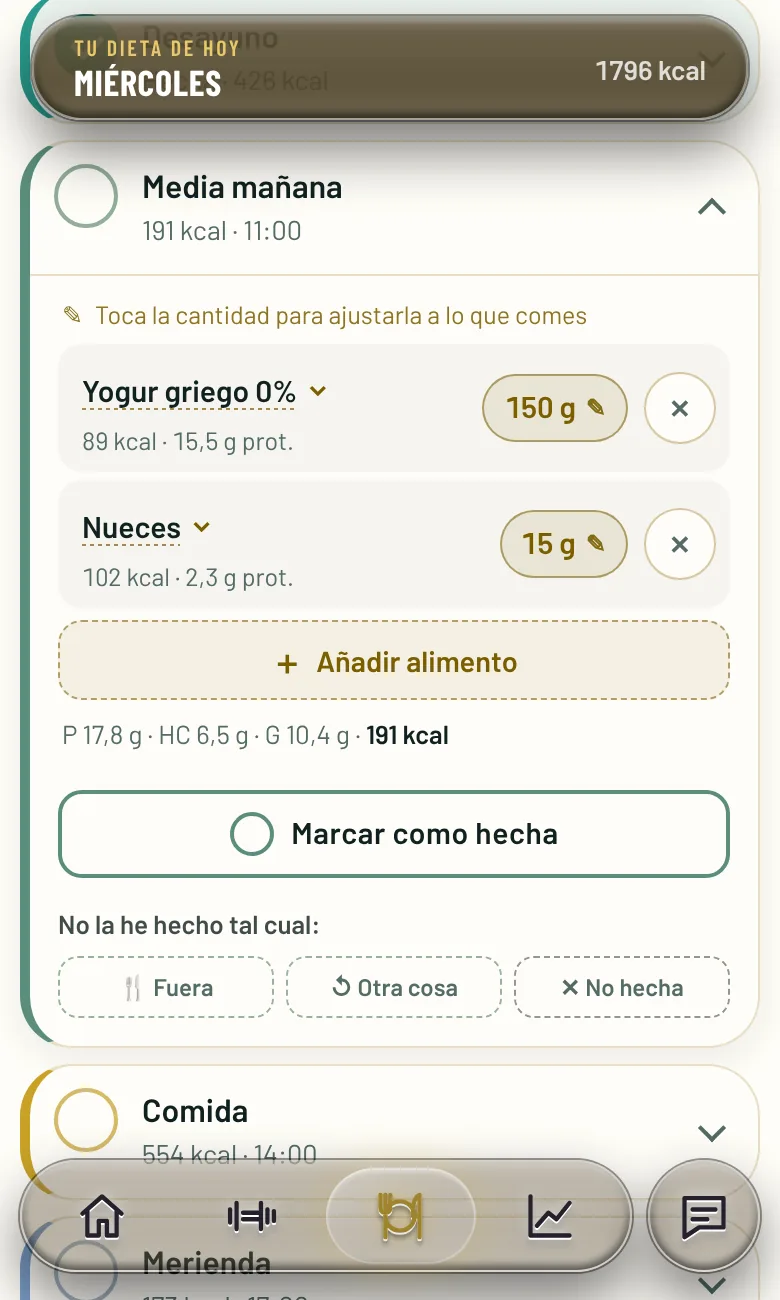
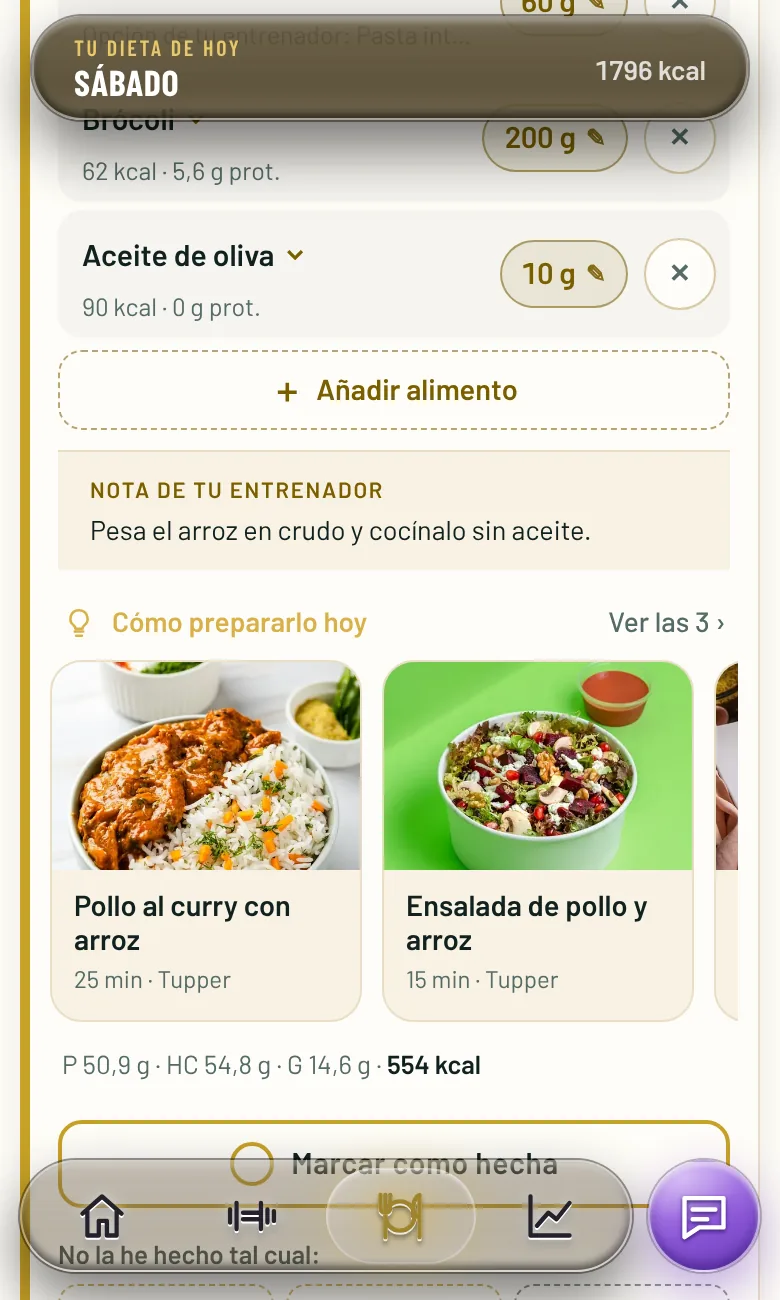
Web: recetas y Garmin Connect en «La app» (capturas nuevas de la demo)
Claude-Session: https://claude.ai/code/session_01XqDZy1txWeWUD3wH3kwhHA

diff --git a/index.html b/index.html
@@ -96,6 +96,18 @@ section { padding-block: 96px 0; }
 .shot .phone img { border-radius: 19px; }
 .shot figcaption { font-size: 14px; line-height: 1.45; color: var(--band-muted); }
 .shot figcaption b { color: var(--band-fg); font-weight: 600; }
+/* Novedades: recetas y Garmin (14 nov) */
+.app-new { margin-top: 96px; display: grid; gap: 80px; }
+.nw { display: grid; grid-template-columns: minmax(0, 1fr) minmax(0, 1fr); gap: 56px; align-items: center; }
+.nw + .nw .nw-txt { order: 2; }
+.nw h3 { font-size: clamp(28px, 3.4vw, 40px); font-weight: 800; line-height: 1.1; margin: 8px 0 14px; color: var(--band-fg); }
+.nw-txt > p { color: var(--band-muted); max-width: 52ch; }
+.nw .feats { margin-top: 22px; }
+.nw-ph { display: flex; justify-content: center; align-items: flex-start; gap: 18px; padding-bottom: 28px; }
+.nw-ph .phone { width: 46%; max-width: 240px; }
+.nw-ph .phone:nth-child(2) { transform: translateY(28px); }
+.nw-tm { margin: 0; font-size: 12px; line-height: 1.5; color: var(--band-muted); }
+@media (max-width: 800px) { .nw { grid-template-columns: minmax(0, 1fr); gap: 28px; } .nw + .nw .nw-txt { order: 0; } }
 @media (max-width: 1000px) { .shots { grid-template-columns: repeat(3, minmax(0, 1fr)); row-gap: 28px; } }
 
 /* Sobre mí */
@@ -227,6 +239,10 @@ section { padding-block: 96px 0; }
   .shots { display: flex; overflow-x: auto; scroll-snap-type: x mandatory; margin-inline: -20px; padding: 4px 20px 6px; gap: 14px; scrollbar-width: none; }
   .shots::-webkit-scrollbar { display: none; }
   .shot { flex: 0 0 64%; scroll-snap-align: center; }
+  .app-new { margin-top: 64px; gap: 56px; }
+  .nw-ph { gap: 12px; padding-bottom: 0; }
+  .nw-ph .phone { flex: 1 1 0; width: auto; max-width: none; }
+  .nw-ph .phone:nth-child(2) { transform: none; }
   .swipe-hint { display: block; margin-top: 10px; text-align: center; font-family: var(--font-mono); font-size: 11px; letter-spacing: .14em; text-transform: uppercase; color: var(--band-muted); }
   .svc { display: grid; grid-template-columns: minmax(0, 1fr) auto; column-gap: 14px; row-gap: 4px; padding: 16px 18px; }
   .svc > * { grid-column: 1; }
@@ -408,7 +424,7 @@ html.intro, html.intro body { overflow: hidden; }
         </div>
         <ul class="feats rv">
           <li><svg width="18" height="18" viewBox="0 0 24 24" fill="none" stroke="currentColor" stroke-width="3" stroke-linecap="round" stroke-linejoin="round"><path d="M5 12l5 5L20 7"/></svg><span><b>Entreno del día</b>, con series, repeticiones y el peso de tu última sesión.</span></li>
-          <li><svg width="18" height="18" viewBox="0 0 24 24" fill="none" stroke="currentColor" stroke-width="3" stroke-linecap="round" stroke-linejoin="round"><path d="M5 12l5 5L20 7"/></svg><span><b>Tu dieta en gramos</b>, con alternativas para cambiar alimentos sin salirte del plan.</span></li>
+          <li><svg width="18" height="18" viewBox="0 0 24 24" fill="none" stroke="currentColor" stroke-width="3" stroke-linecap="round" stroke-linejoin="round"><path d="M5 12l5 5L20 7"/></svg><span><b>Tu dieta en gramos</b>, con alternativas para cambiar alimentos sin salirte del plan e ideas de recetas con esos mismos gramos.</span></li>
           <li><svg width="18" height="18" viewBox="0 0 24 24" fill="none" stroke="currentColor" stroke-width="3" stroke-linecap="round" stroke-linejoin="round"><path d="M5 12l5 5L20 7"/></svg><span><b>Lista de la compra</b> preparada a partir de tu plan.</span></li>
           <li><svg width="18" height="18" viewBox="0 0 24 24" fill="none" stroke="currentColor" stroke-width="3" stroke-linecap="round" stroke-linejoin="round"><path d="M5 12l5 5L20 7"/></svg><span><b>Carreras y progreso</b>: registra tus salidas y sigue tu semana de un vistazo.</span></li>
           <li><svg width="18" height="18" viewBox="0 0 24 24" fill="none" stroke="currentColor" stroke-width="3" stroke-linecap="round" stroke-linejoin="round"><path d="M5 12l5 5L20 7"/></svg><span><b>Compatible con Garmin Connect</b>: si entrenas con reloj Garmin, conectas tu cuenta y tus salidas y actividades llegan solas a la app, sin apuntarlas a mano. Yo las veo al momento.</span></li>
@@ -420,7 +436,7 @@ html.intro, html.intro body { overflow: hidden; }
       <div class="phones rv" aria-label="Capturas de la app Team Biscuit">
         <div class="phone"><img src="img/app-home.webp?v=7" alt="Pantalla de inicio de la app (cliente de ejemplo)" width="390" height="650"></div>
         <div class="phone"><img src="img/app-ent.webp?v=7" alt="Pantalla de entrenamiento" width="390" height="650"></div>
-        <div class="phone"><img src="img/app-diet.webp?v=7" alt="Pantalla de dieta" width="390" height="650"></div>
+        <div class="phone"><img src="img/app-diet.webp?v=8" alt="Pantalla de dieta con ideas de recetas" width="390" height="650"></div>
       </div>
       <p class="swipe-hint" aria-hidden="true">Desliza para ver más →</p>
       </div>
@@ -441,6 +457,41 @@ html.intro, html.intro body { overflow: hidden; }
         </div>
         <p class="swipe-hint" aria-hidden="true">Desliza para ver más →</p>
       </div>
+    </section>
+    <section class="app-new" aria-label="Novedades de la app">
+      <div class="nw">
+        <div class="nw-txt rv">
+          <p class="eyebrow">Novedad · Dieta</p>
+          <h3>Cómo prepararlo</h3>
+          <p>Cada comida de tu dieta trae ideas de recetas hechas con tus mismos alimentos y gramos, así que tu plan no cambia. Con foto, ingredientes pesados y los pasos.</p>
+          <ul class="feats">
+            <li><svg width="18" height="18" viewBox="0 0 24 24" fill="none" stroke="currentColor" stroke-width="3" stroke-linecap="round" stroke-linejoin="round"><path d="M5 12l5 5L20 7"/></svg><span><b>Más de 170 recetas</b> para desayunos, comidas, meriendas y cenas.</span></li>
+            <li><svg width="18" height="18" viewBox="0 0 24 24" fill="none" stroke="currentColor" stroke-width="3" stroke-linecap="round" stroke-linejoin="round"><path d="M5 12l5 5L20 7"/></svg><span><b>Modo cocinar</b> paso a paso, con la pantalla siempre encendida.</span></li>
+            <li><svg width="18" height="18" viewBox="0 0 24 24" fill="none" stroke="currentColor" stroke-width="3" stroke-linecap="round" stroke-linejoin="round"><path d="M5 12l5 5L20 7"/></svg><span><b>Favoritas y tupper</b>: guarda las que más te gustan y cocina para dos o tres días.</span></li>
+          </ul>
+        </div>
+        <div class="nw-ph rv">
+          <div class="phone"><img src="img/app-receta.webp?v=1" alt="Receta con foto para la comida del día" width="390" height="650" loading="lazy"></div>
+          <div class="phone"><img src="img/app-receta-pasos.webp?v=1" alt="Ingredientes en gramos y pasos de la receta" width="390" height="650" loading="lazy"></div>
+        </div>
+      </div>
+      <div class="nw">
+        <div class="nw-txt rv">
+          <p class="eyebrow">Novedad · Carrera</p>
+          <h3>Conecta con Garmin Connect</h3>
+          <p>Si entrenas con reloj Garmin, conectas tu cuenta desde la app en un minuto. Tus salidas llegan solas y marcan la sesión de tu plan: tú solo me dices cómo te has sentido.</p>
+          <ul class="feats">
+            <li><svg width="18" height="18" viewBox="0 0 24 24" fill="none" stroke="currentColor" stroke-width="3" stroke-linecap="round" stroke-linejoin="round"><path d="M5 12l5 5L20 7"/></svg><span><b>La actividad completa</b>: ritmo, pulso, zonas, kilómetro a kilómetro, desnivel y recorrido.</span></li>
+            <li><svg width="18" height="18" viewBox="0 0 24 24" fill="none" stroke="currentColor" stroke-width="3" stroke-linecap="round" stroke-linejoin="round"><path d="M5 12l5 5L20 7"/></svg><span><b>Yo la veo al momento</b> y ajusto tu plan con datos reales.</span></li>
+            <li><svg width="18" height="18" viewBox="0 0 24 24" fill="none" stroke="currentColor" stroke-width="3" stroke-linecap="round" stroke-linejoin="round"><path d="M5 12l5 5L20 7"/></svg><span><b>Tú decides</b>: lo conectas y desconectas cuando quieras.</span></li>
+          </ul>
+        </div>
+        <div class="nw-ph rv">
+          <div class="phone"><img src="img/app-garmin-sesion.webp?v=1" alt="Sesión de carrera completada sola con un reloj Garmin" width="390" height="650" loading="lazy"></div>
+          <div class="phone"><img src="img/app-garmin-ficha.webp?v=1" alt="Ficha completa de una salida con gráficas de ritmo y pulso" width="390" height="650" loading="lazy"></div>
+        </div>
+      </div>
+      <p class="nw-tm">Garmin y Garmin Connect son marcas de Garmin Ltd. o sus filiales. Tactical Biscuit Training no está patrocinado por Garmin.</p>
     </section>
   </div>
 </div>

diff --git a/en/index.html b/en/index.html
@@ -97,6 +97,18 @@ section { padding-block: 96px 0; }
 .shot .phone img { border-radius: 19px; }
 .shot figcaption { font-size: 14px; line-height: 1.45; color: var(--band-muted); }
 .shot figcaption b { color: var(--band-fg); font-weight: 600; }
+/* Novedades: recetas y Garmin (14 nov) */
+.app-new { margin-top: 96px; display: grid; gap: 80px; }
+.nw { display: grid; grid-template-columns: minmax(0, 1fr) minmax(0, 1fr); gap: 56px; align-items: center; }
+.nw + .nw .nw-txt { order: 2; }
+.nw h3 { font-size: clamp(28px, 3.4vw, 40px); font-weight: 800; line-height: 1.1; margin: 8px 0 14px; color: var(--band-fg); }
+.nw-txt > p { color: var(--band-muted); max-width: 52ch; }
+.nw .feats { margin-top: 22px; }
+.nw-ph { display: flex; justify-content: center; align-items: flex-start; gap: 18px; padding-bottom: 28px; }
+.nw-ph .phone { width: 46%; max-width: 240px; }
+.nw-ph .phone:nth-child(2) { transform: translateY(28px); }
+.nw-tm { margin: 0; font-size: 12px; line-height: 1.5; color: var(--band-muted); }
+@media (max-width: 800px) { .nw { grid-template-columns: minmax(0, 1fr); gap: 28px; } .nw + .nw .nw-txt { order: 0; } }
 @media (max-width: 1000px) { .shots { grid-template-columns: repeat(3, minmax(0, 1fr)); row-gap: 28px; } }
 
 /* Sobre mí */
@@ -228,6 +240,10 @@ section { padding-block: 96px 0; }
   .shots { display: flex; overflow-x: auto; scroll-snap-type: x mandatory; margin-inline: -20px; padding: 4px 20px 6px; gap: 14px; scrollbar-width: none; }
   .shots::-webkit-scrollbar { display: none; }
   .shot { flex: 0 0 64%; scroll-snap-align: center; }
+  .app-new { margin-top: 64px; gap: 56px; }
+  .nw-ph { gap: 12px; padding-bottom: 0; }
+  .nw-ph .phone { flex: 1 1 0; width: auto; max-width: none; }
+  .nw-ph .phone:nth-child(2) { transform: none; }
   .swipe-hint { display: block; margin-top: 10px; text-align: center; font-family: var(--font-mono); font-size: 11px; letter-spacing: .14em; text-transform: uppercase; color: var(--band-muted); }
   .svc { display: grid; grid-template-columns: minmax(0, 1fr) auto; column-gap: 14px; row-gap: 4px; padding: 16px 18px; }
   .svc > * { grid-column: 1; }
@@ -409,7 +425,7 @@ html.intro, html.intro body { overflow: hidden; }
         </div>
         <ul class="feats rv">
           <li><svg width="18" height="18" viewBox="0 0 24 24" fill="none" stroke="currentColor" stroke-width="3" stroke-linecap="round" stroke-linejoin="round"><path d="M5 12l5 5L20 7"/></svg><span><b>Today’s workout</b>, with sets, reps and the weight from your last session.</span></li>
-          <li><svg width="18" height="18" viewBox="0 0 24 24" fill="none" stroke="currentColor" stroke-width="3" stroke-linecap="round" stroke-linejoin="round"><path d="M5 12l5 5L20 7"/></svg><span><b>Your diet in grams</b>, with alternatives to swap foods without leaving the plan.</span></li>
+          <li><svg width="18" height="18" viewBox="0 0 24 24" fill="none" stroke="currentColor" stroke-width="3" stroke-linecap="round" stroke-linejoin="round"><path d="M5 12l5 5L20 7"/></svg><span><b>Your diet in grams</b>, with alternatives to swap foods without leaving the plan, and recipe ideas using those same grams.</span></li>
           <li><svg width="18" height="18" viewBox="0 0 24 24" fill="none" stroke="currentColor" stroke-width="3" stroke-linecap="round" stroke-linejoin="round"><path d="M5 12l5 5L20 7"/></svg><span><b>Shopping list</b> prepared from your plan.</span></li>
           <li><svg width="18" height="18" viewBox="0 0 24 24" fill="none" stroke="currentColor" stroke-width="3" stroke-linecap="round" stroke-linejoin="round"><path d="M5 12l5 5L20 7"/></svg><span><b>Runs and progress</b>: log your runs and follow your week at a glance.</span></li>
           <li><svg width="18" height="18" viewBox="0 0 24 24" fill="none" stroke="currentColor" stroke-width="3" stroke-linecap="round" stroke-linejoin="round"><path d="M5 12l5 5L20 7"/></svg><span><b>Works with Garmin Connect</b>: if you train with a Garmin watch, connect your account and your runs and activities arrive in the app automatically, with no manual logging. I see them straight away.</span></li>
@@ -421,7 +437,7 @@ html.intro, html.intro body { overflow: hidden; }
       <div class="phones rv" aria-label="Team Biscuit app screenshots">
         <div class="phone"><img src="../img/app-home.webp?v=7" alt="App home screen (sample client)" width="390" height="650"></div>
         <div class="phone"><img src="../img/app-ent.webp?v=7" alt="Training screen" width="390" height="650"></div>
-        <div class="phone"><img src="../img/app-diet.webp?v=7" alt="Diet screen" width="390" height="650"></div>
+        <div class="phone"><img src="../img/app-diet.webp?v=8" alt="Diet screen with recipe ideas" width="390" height="650"></div>
       </div>
       <p class="swipe-hint" aria-hidden="true">Swipe to see more →</p>
       </div>
@@ -442,6 +458,41 @@ html.intro, html.intro body { overflow: hidden; }
         </div>
         <p class="swipe-hint" aria-hidden="true">Swipe to see more →</p>
       </div>
+    </section>
+    <section class="app-new" aria-label="New in the app">
+      <div class="nw">
+        <div class="nw-txt rv">
+          <p class="eyebrow">New · Diet</p>
+          <h3>How to cook it</h3>
+          <p>Every meal in your diet comes with recipe ideas made with your exact foods and grams, so your plan stays the same. With a photo, weighed ingredients and the steps.</p>
+          <ul class="feats">
+            <li><svg width="18" height="18" viewBox="0 0 24 24" fill="none" stroke="currentColor" stroke-width="3" stroke-linecap="round" stroke-linejoin="round"><path d="M5 12l5 5L20 7"/></svg><span><b>Over 170 recipes</b> for breakfasts, lunches, snacks and dinners.</span></li>
+            <li><svg width="18" height="18" viewBox="0 0 24 24" fill="none" stroke="currentColor" stroke-width="3" stroke-linecap="round" stroke-linejoin="round"><path d="M5 12l5 5L20 7"/></svg><span><b>Cooking mode</b>, step by step, with the screen always on.</span></li>
+            <li><svg width="18" height="18" viewBox="0 0 24 24" fill="none" stroke="currentColor" stroke-width="3" stroke-linecap="round" stroke-linejoin="round"><path d="M5 12l5 5L20 7"/></svg><span><b>Favourites and meal prep</b>: save the ones you like best and cook for two or three days.</span></li>
+          </ul>
+        </div>
+        <div class="nw-ph rv">
+          <div class="phone"><img src="../img/app-receta.webp?v=1" alt="Recipe with a photo for today’s lunch" width="390" height="650" loading="lazy"></div>
+          <div class="phone"><img src="../img/app-receta-pasos.webp?v=1" alt="Recipe ingredients in grams and steps" width="390" height="650" loading="lazy"></div>
+        </div>
+      </div>
+      <div class="nw">
+        <div class="nw-txt rv">
+          <p class="eyebrow">New · Running</p>
+          <h3>Works with Garmin Connect</h3>
+          <p>If you train with a Garmin watch, connect your account from the app in a minute. Your runs arrive automatically and tick off the session in your plan: you just tell me how you felt.</p>
+          <ul class="feats">
+            <li><svg width="18" height="18" viewBox="0 0 24 24" fill="none" stroke="currentColor" stroke-width="3" stroke-linecap="round" stroke-linejoin="round"><path d="M5 12l5 5L20 7"/></svg><span><b>The full activity</b>: pace, heart rate, zones, kilometre splits, elevation and route.</span></li>
+            <li><svg width="18" height="18" viewBox="0 0 24 24" fill="none" stroke="currentColor" stroke-width="3" stroke-linecap="round" stroke-linejoin="round"><path d="M5 12l5 5L20 7"/></svg><span><b>I see it straight away</b> and adjust your plan with real data.</span></li>
+            <li><svg width="18" height="18" viewBox="0 0 24 24" fill="none" stroke="currentColor" stroke-width="3" stroke-linecap="round" stroke-linejoin="round"><path d="M5 12l5 5L20 7"/></svg><span><b>You’re in control</b>: connect and disconnect whenever you like.</span></li>
+          </ul>
+        </div>
+        <div class="nw-ph rv">
+          <div class="phone"><img src="../img/app-garmin-sesion.webp?v=1" alt="Running session completed automatically from a Garmin watch" width="390" height="650" loading="lazy"></div>
+          <div class="phone"><img src="../img/app-garmin-ficha.webp?v=1" alt="Full run details with pace and heart rate charts" width="390" height="650" loading="lazy"></div>
+        </div>
+      </div>
+      <p class="nw-tm">Garmin and Garmin Connect are trademarks of Garmin Ltd. or its subsidiaries. Tactical Biscuit Training is not sponsored by Garmin.</p>
     </section>
   </div>
 </div>
